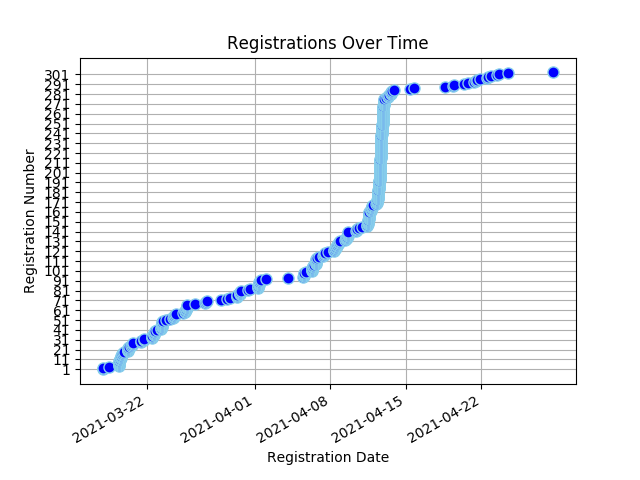
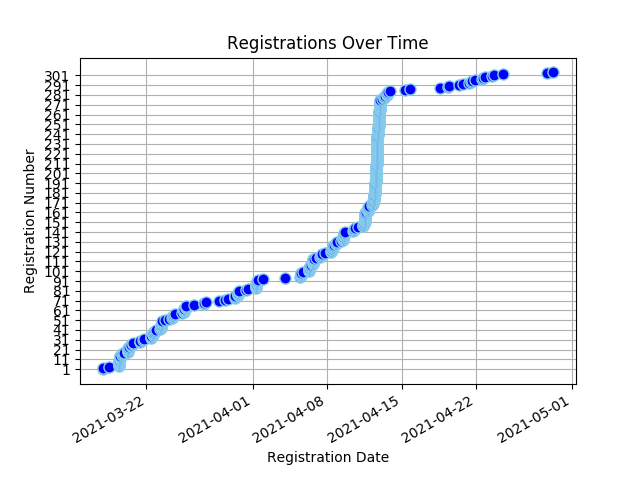
Registree stats backup on Thu 29 Apr 2021 09:02:29 SAST

diff --git a/content/registrees/_index.md b/content/registrees/_index.md
@@ -3,7 +3,7 @@ title: Registration Stats
 draft: false
 ---
 
-<ul><li><strong>Number of Registrees</strong>: 303</li>
+<ul><li><strong>Number of Registrees</strong>: 304</li>
 
 <li><strong>Number of Clubs</strong>: 70</li>
 
@@ -33,6 +33,6 @@ draft: false
         </tr>
     </thead>
     <tbody>
-<tr><td>Natalie Abrahams</td><td>Cape Town</td><td>410W</td></tr><tr><td>Alan Abramsohn</td><td>Milnerton</td><td>410W</td></tr><tr><td>Janine Abramsohn</td><td>Sea Point</td><td>410W</td></tr><tr><td>Rashid Adams</td><td>Athlone</td><td>410W</td></tr><tr><td>Linda Anderson</td><td>George</td><td>410W</td></tr><tr><td>Neale Stewart ANDREWS</td><td>Cowies Hill</td><td>410E</td></tr><tr><td>Linda Baumgarten</td><td>Sea Point</td><td>410W</td></tr><tr><td>Ulrike Behrens</td><td>Windhoek</td><td>410W</td></tr><tr><td>Cathleen Benade</td><td>Rehoboth</td><td>410W</td></tr><tr><td>Valencia Beukes-Williams</td><td>Kuilsriver</td><td>410W</td></tr><tr><td>Suzette Blake</td><td>Centurion</td><td>410E</td></tr><tr><td>Belinda Blakeman</td><td>North Durban</td><td>410E</td></tr><tr><td>Mel Boswell</td><td>Nelspruit</td><td>410E</td></tr><tr><td>Lyn(ette) Botha</td><td>Cowies Hill</td><td>410E</td></tr><tr><td>JOSE BRAGA BORGES</td><td>Malmesbury</td><td>410W</td></tr><tr><td>Paul Brauteseth</td><td>Port Shepstone</td><td>410E</td></tr><tr><td>Byron Brooker</td><td>Pretoria South</td><td>410E</td></tr><tr><td>Nelle Buhrmann</td><td>Sea Point</td><td>410W</td></tr><tr><td>Christopher Bull</td><td>The Wilds</td><td>410E</td></tr><tr><td>Karin Byars</td><td>Manzini</td><td>410E</td></tr><tr><td>Herman Cadman</td><td>Stellenbosch</td><td>410W</td></tr><tr><td>Artemis Calomiris</td><td>Helderberg</td><td>410W</td></tr><tr><td>Linda Ann Cannone</td><td>Fish Hoek</td><td>410W</td></tr><tr><td>Petrus Carstens</td><td>Worcester</td><td>410W</td></tr><tr><td>Lizelle Castle</td><td>Athlone</td><td>410W</td></tr><tr><td>Sue Charles</td><td>Tokai</td><td>410W</td></tr><tr><td>Lionel Chazen</td><td>Edenvale</td><td>410E</td></tr><tr><td>Perry Chetty</td><td>East Coast</td><td>410E</td></tr><tr><td>Tanyaradzwa Chinyai</td><td>Groote Schuur</td><td>410W</td></tr><tr><td>Delaney Yeltsin Cloete</td><td>Eden</td><td>410W</td></tr><tr><td>Kate Coppen</td><td>Letaba Tzaneen</td><td>410E</td></tr><tr><td>Esme Cornelius</td><td>Kuilsriver</td><td>410W</td></tr><tr><td>Sharon Cottle</td><td>Groote Schuur</td><td>410W</td></tr><tr><td>Joel d'Offay</td><td>Milnerton</td><td>410W</td></tr><tr><td>Peter Daniel</td><td>Gordons Bay</td><td>410W</td></tr><tr><td>Norma Daniel</td><td>Gordons Bay</td><td>410W</td></tr><tr><td>Melanie Davids</td><td>Alberton</td><td>410E</td></tr><tr><td>Engela de Kock</td><td>Swellendam</td><td>410W</td></tr><tr><td>Francois de Kock</td><td>Swellendam</td><td>410W</td></tr><tr><td>Charlotte de Silva</td><td>Edenvale</td><td>410E</td></tr><tr><td>ANDRE DE VILLIERS</td><td>Malgas</td><td>410W</td></tr><tr><td>Lara De Wet</td><td>Edenvale</td><td>410E</td></tr><tr><td>Benita Diener</td><td>Mitchells Plain</td><td>410W</td></tr><tr><td>Freda Dodd</td><td>Table View</td><td>410W</td></tr><tr><td>Peggy Du Plooy</td><td>Krugersdorp</td><td>410E</td></tr><tr><td>Ivan Du Plooy</td><td>Krugersdorp</td><td>410E</td></tr><tr><td>Marc du Plooy</td><td>Alberton</td><td>410E</td></tr><tr><td>Tammy du Plooy</td><td>Alberton</td><td>410E</td></tr><tr><td>Marihana Du Preez</td><td>Pretoria Jakaranda</td><td>410E</td></tr><tr><td>Desiree du Toit</td><td>Ramsgate</td><td>410E</td></tr><tr><td>Hanè Dunn</td><td>Swellendam</td><td>410W</td></tr><tr><td>Glynn Easton</td><td>Helderkruin</td><td>410E</td></tr><tr><td>Denise Easton</td><td>Helderkruin</td><td>410E</td></tr><tr><td>Johan Els</td><td>Wilro Park</td><td>410E</td></tr><tr><td>Valerie Elske</td><td>Krugersdorp</td><td>410E</td></tr><tr><td>Fadia Ely</td><td>Athlone</td><td>410W</td></tr><tr><td>Abubakr Ely</td><td>Deep South</td><td>410W</td></tr><tr><td>Freddie Erasmus</td><td>Uitenhage</td><td>410E</td></tr><tr><td>Natalie Etridge</td><td>Sedgefield</td><td>410W</td></tr><tr><td>AIDAN Ewers</td><td>Newlands</td><td>410W</td></tr><tr><td>Beate Fahrbach</td><td>Windhoek</td><td>410W</td></tr><tr><td>Roger Fahrbach</td><td>Windhoek</td><td>410W</td></tr><tr><td>Jules Flanagan</td><td>Tokai</td><td>410W</td></tr><tr><td>Charles Flanagan</td><td>Tokai</td><td>410W</td></tr><tr><td>Jéan Fouché</td><td>Worcester</td><td>410W</td></tr><tr><td>Michele Fourie</td><td>Merriman</td><td>410W</td></tr><tr><td>Lucille Fourie</td><td>Pretoria South</td><td>410E</td></tr><tr><td>Clive Fox</td><td>Merriman</td><td>410W</td></tr><tr><td>Pat Fox</td><td>Merriman</td><td>410W</td></tr><tr><td>Kelvin Foxcroft</td><td>Helderkruin</td><td>410E</td></tr><tr><td>Katherine Foxcroft</td><td>Helderkruin</td><td>410E</td></tr><tr><td>Jenny Foxcroft</td><td>Helderkruin</td><td>410E</td></tr><tr><td>Martin Froise</td><td>Letaba Tzaneen</td><td>410E</td></tr><tr><td>Allison Georges</td><td>Cape Of Good Hope</td><td>410W</td></tr><tr><td>Bernd Gerhard</td><td>Wilro Park</td><td>410E</td></tr><tr><td>Shirley Gerhard</td><td>Wilro Park</td><td>410E</td></tr><tr><td>Valerie Graham</td><td>Nelspruit</td><td>410E</td></tr><tr><td>Mike Graham</td><td>Nelspruit</td><td>410E</td></tr><tr><td>Viv Grater</td><td>Sedgefield</td><td>410W</td></tr><tr><td>Brian Gray</td><td>Durbanville</td><td>410W</td></tr><tr><td>David Griffith</td><td>The Wilds</td><td>410E</td></tr><tr><td>Matty Grobler</td><td>Henties Bay</td><td>410W</td></tr><tr><td>Christiana Groenewoud</td><td>Milnerton</td><td>410W</td></tr><tr><td>Ian Grove</td><td>Kirstenbosch</td><td>410W</td></tr><tr><td>Mattheus Groves</td><td>Sedgefield</td><td>410W</td></tr><tr><td>Glyn Gunter</td><td>Malmesbury</td><td>410W</td></tr><tr><td>Clint Guthrie</td><td>Pretoria South</td><td>410E</td></tr><tr><td>Barbara Haywood</td><td>Eden</td><td>410W</td></tr><tr><td>Mike Heathcote</td><td>Port Shepstone</td><td>410E</td></tr><tr><td>Zarina Hendricks</td><td>Athlone</td><td>410W</td></tr><tr><td>ELIZABETH Hendriks</td><td>Table View</td><td>410W</td></tr><tr><td>MBULELO HERMANUS</td><td>Pretoria South</td><td>410E</td></tr><tr><td>Evelyn Herzfeld</td><td>Edenvale</td><td>410E</td></tr><tr><td>Dorothy Hess</td><td>Kuilsriver</td><td>410W</td></tr><tr><td>Wendy Higgins</td><td>Wilro Park</td><td>410E</td></tr><tr><td>Avril Hobbs</td><td>North Durban</td><td>410E</td></tr><tr><td>Trevor Hobbs</td><td>North Durban</td><td>410E</td></tr><tr><td>Jacqui Hocking</td><td>Midrand</td><td>410E</td></tr><tr><td>Cliff Hocking</td><td>Midrand</td><td>410E</td></tr><tr><td>Ellen G W Hoffmann</td><td>Windhoek</td><td>410W</td></tr><tr><td>KEITH ALEXANDER HOLLIMAN</td><td>Alberton</td><td>410E</td></tr><tr><td>Liz Houston</td><td>Table View</td><td>410W</td></tr><tr><td>John Houston</td><td>Table View</td><td>410W</td></tr><tr><td>Johan Huysamen</td><td>Malmesbury</td><td>410W</td></tr><tr><td>Gail Jackman</td><td>Nelspruit</td><td>410E</td></tr><tr><td>Alna Jackson</td><td>Pretoria Jakaranda</td><td>410E</td></tr><tr><td>Jean Jacobs</td><td>Mitchells Plain</td><td>410W</td></tr><tr><td>Dawid Jacobs</td><td>Durbanville</td><td>410W</td></tr><tr><td>WOLSLEY Jacobson</td><td>Cape Town</td><td>410W</td></tr><tr><td>Tristan Jeniker</td><td>Merriman</td><td>410W</td></tr><tr><td>MALCOLM JOHNSTON</td><td>Standerton</td><td>410E</td></tr><tr><td>Grant Jonathan</td><td>Gordons Bay</td><td>410W</td></tr><tr><td>Jos Kahn</td><td>Ceres</td><td>410W</td></tr><tr><td>Michelle Kahn</td><td>Sea Point</td><td>410W</td></tr><tr><td>Nico Kaiyamo</td><td>Tsumeb</td><td>410W</td></tr><tr><td>Faezal Karriem</td><td>Worcester</td><td>410W</td></tr><tr><td>Amanda Kemp</td><td>Milnerton</td><td>410W</td></tr><tr><td>Esmeralda Catherine Kennel</td><td>Newlands</td><td>410W</td></tr><tr><td>Jerome Kern</td><td>Groote Schuur</td><td>410W</td></tr><tr><td>Hassan Khan</td><td>Kirstenbosch</td><td>410W</td></tr><tr><td>Faniso Khoza</td><td>The Wilds</td><td>410E</td></tr><tr><td>Margie Kienast</td><td>Edenvale</td><td>410E</td></tr><tr><td>Joyce Kimari</td><td>Eden</td><td>410E</td></tr><tr><td>Ian King</td><td>Alberton</td><td>410E</td></tr><tr><td>Sandy King</td><td>Alberton</td><td>410E</td></tr><tr><td>Christa Koekemoer</td><td>Letaba Tzaneen</td><td>410E</td></tr><tr><td>Alton Koenze</td><td>Worcester</td><td>410W</td></tr><tr><td>Alton Koenze</td><td>Worcester</td><td>410W</td></tr><tr><td>Muya Koloko</td><td>Durbanville</td><td>410W</td></tr><tr><td>Zwaai Kruger</td><td>Sedgefield</td><td>410W</td></tr><tr><td>Pieter Kruger</td><td>Wilro Park</td><td>410E</td></tr><tr><td>Niqula Kruger</td><td>Wilro Park</td><td>410E</td></tr><tr><td>Bettina Kröning</td><td>Windhoek</td><td>410W</td></tr><tr><td>Natalie Laas</td><td>Alberton</td><td>410E</td></tr><tr><td>Susan Labuschagne</td><td>Wilro Park</td><td>410E</td></tr><tr><td>Bevil Lakay</td><td>Mitchells Plain</td><td>410W</td></tr><tr><td>Paula Lang</td><td>Gordons Bay</td><td>410W</td></tr><tr><td>Jimmy Lang</td><td>Gordons Bay</td><td>410W</td></tr><tr><td>Elke Langmaak</td><td>Windhoek</td><td>410W</td></tr><tr><td>Kai Langmaak</td><td>Windhoek</td><td>410W</td></tr><tr><td>Evelyn May Langton</td><td>Alberton</td><td>410E</td></tr><tr><td>Herman Laubscher</td><td>Ceres</td><td>410W</td></tr><tr><td>Steven Lautenbach</td><td>Pretoria South</td><td>410E</td></tr><tr><td>leandre layman</td><td>Groote Schuur</td><td>410W</td></tr><tr><td>Jeanette le Roux</td><td>Gonubie</td><td>410E</td></tr><tr><td>Heather Lee</td><td>Cape Of Good Hope</td><td>410W</td></tr><tr><td>Graeme Logan</td><td>Pretoria South</td><td>410E</td></tr><tr><td>Erika Louw</td><td>Durbanville</td><td>410W</td></tr><tr><td>Dee Love</td><td>Cowies Hill</td><td>410E</td></tr><tr><td>Rashmiya Lucas</td><td>Mitchells Plain</td><td>410W</td></tr><tr><td>Zarina Luck</td><td>Newcastle</td><td>410E</td></tr><tr><td>Pam MacRobert</td><td>Groote Schuur</td><td>410W</td></tr><tr><td>Sharon Mangwende</td><td>Cape Town</td><td>410W</td></tr><tr><td>Richard MARCHANT</td><td>The Wilds</td><td>410E</td></tr><tr><td>Beaulieu Mare</td><td>Benoni Lakes</td><td>410E</td></tr><tr><td>Nick Maré</td><td>Benoni Lakes</td><td>410E</td></tr><tr><td>Jean Masson</td><td>Port Shepstone</td><td>410E</td></tr><tr><td>LANCE MAYTHAM</td><td>Swellendam</td><td>410W</td></tr><tr><td>ROSEMARIE MAYTHAM</td><td>Swellendam</td><td>410W</td></tr><tr><td>David Mccullough</td><td>Pretoria South</td><td>410E</td></tr><tr><td>Rochelle McDonald</td><td>Vereeniging</td><td>410E</td></tr><tr><td>Alec McKerrow</td><td>Port Alfred</td><td>410E</td></tr><tr><td>Stuart McPherson</td><td>Newlands</td><td>410W</td></tr><tr><td>Mark Meltzer</td><td>The Wilds</td><td>410E</td></tr><tr><td>Elisa Metz</td><td>Milnerton</td><td>410W</td></tr><tr><td>Denis Meyer</td><td>Port Shepstone</td><td>410E</td></tr><tr><td>Roy Michas</td><td>Midrand</td><td>410E</td></tr><tr><td>Dawn Michas</td><td>Midrand</td><td>410E</td></tr><tr><td>BERNICE MILLS</td><td>Centurion</td><td>410E</td></tr><tr><td>Patrick Mills</td><td>Centurion</td><td>410E</td></tr><tr><td>Cherie Milosevich</td><td>Milnerton</td><td>410W</td></tr><tr><td>Alana Mitchell</td><td>Rustenburg</td><td>410E</td></tr><tr><td>Juan Mitchell</td><td>Rustenburg</td><td>410E</td></tr><tr><td>Virginia Mkhize</td><td>Cape Town</td><td>410W</td></tr><tr><td>Frauke E. Moeller</td><td>Windhoek</td><td>410W</td></tr><tr><td>Bernadine Moses</td><td>Cape Town</td><td>410W</td></tr><tr><td>Brian Moses</td><td>Cape Of Good Hope</td><td>410W</td></tr><tr><td>Jacques Mostert</td><td>Merriman</td><td>410W</td></tr><tr><td>Suzanne Murray</td><td>Vereeniging</td><td>410E</td></tr><tr><td>Gary Murray</td><td>Vereeniging</td><td>410E</td></tr><tr><td>Peter Mutschler</td><td>Grootfontein</td><td>410W</td></tr><tr><td>Pieter Myburg</td><td>Wellington</td><td>410W</td></tr><tr><td>Cornette Naude</td><td>Letaba Tzaneen</td><td>410E</td></tr><tr><td>Pieter Nel</td><td>George</td><td>410W</td></tr><tr><td>Tillie Nel</td><td>Eden</td><td>410W</td></tr><tr><td>Theo Nel</td><td>Pretoria South</td><td>410E</td></tr><tr><td>Mike Newlands</td><td>Port Alfred</td><td>410E</td></tr><tr><td>Sphiwe Ngobozana</td><td>Centurion</td><td>410E</td></tr><tr><td>Angela Niehaus</td><td>Bergvliet</td><td>410W</td></tr><tr><td>Rachel Nortjie</td><td>Mitchells Plain</td><td>410W</td></tr><tr><td>PDG Bokkie Oberholzer</td><td>Uitenhage</td><td>410E</td></tr><tr><td>Chris Ocker</td><td>Fish Hoek</td><td>410W</td></tr><tr><td>Jenny Ocker</td><td>Fish Hoek</td><td>410W</td></tr><tr><td>Debra Olivier</td><td>Sedgefield</td><td>410W</td></tr><tr><td>Isabella Stratton Ormandy</td><td>Milnerton</td><td>410W</td></tr><tr><td>Bronwyn Anne Paijmans</td><td>Cowies Hill</td><td>410E</td></tr><tr><td>Teresa Pantoleon</td><td>Vereeniging</td><td>410E</td></tr><tr><td>Maureen Peters</td><td>Ceres</td><td>410W</td></tr><tr><td>Sundru Pillay</td><td>Durbanville</td><td>410W</td></tr><tr><td>Patrick Pillay</td><td>Tygerberg Hills</td><td>410W</td></tr><tr><td>Tracey Polkinghorne</td><td>Kensington</td><td>410E</td></tr><tr><td>Gavin Polkinghorne</td><td>Kensington</td><td>410E</td></tr><tr><td>BRIAN PORTEOUS</td><td>Hibberdene</td><td>410E</td></tr><tr><td>Yvonne  Maureen Poyowe</td><td>Cape Of Good Hope</td><td>410W</td></tr><tr><td>Sheldon Edmund Pretorius</td><td>Merriman</td><td>410W</td></tr><tr><td>Mary-Anne Ras</td><td>Swellendam</td><td>410W</td></tr><tr><td>Leon Jacobus Ras</td><td>Swellendam</td><td>410W</td></tr><tr><td>Tabeth Rashirai</td><td>Pretoria Jakaranda</td><td>410E</td></tr><tr><td>Janine Rathbone Smyth</td><td>Vereeniging</td><td>410E</td></tr><tr><td>Hugo Reniers</td><td>Nelspruit</td><td>410E</td></tr><tr><td>Sandy Roman</td><td>Bergvliet</td><td>410W</td></tr><tr><td>Mark Rossouw</td><td>Tokai</td><td>410W</td></tr><tr><td>Andrea Rothner</td><td>Eden</td><td>410W</td></tr><tr><td>Anthonie Petrus Roux</td><td>Moorreesburg</td><td>410W</td></tr><tr><td>Ingrid Russell</td><td>Fish Hoek</td><td>410W</td></tr><tr><td>Rodney Sabatier</td><td>Letaba Tzaneen</td><td>410E</td></tr><tr><td>Sharon Sampie</td><td>Bergvliet</td><td>410W</td></tr><tr><td>Vera Schatz</td><td>Windhoek</td><td>410W</td></tr><tr><td>Frank Schatz</td><td>Windhoek</td><td>410W</td></tr><tr><td>Francis Searle</td><td>Kouga</td><td>410E</td></tr><tr><td>Gloria Searle</td><td>Kouga</td><td>410E</td></tr><tr><td>Ami Sell</td><td>Windhoek</td><td>410W</td></tr><tr><td>Beryl Simpson</td><td>Cape Town</td><td>410W</td></tr><tr><td>Kenlis Sircoulomb</td><td>Windhoek</td><td>410W</td></tr><tr><td>Holger Sircoulomb</td><td>Windhoek</td><td>410W</td></tr><tr><td>Hennie Smeer</td><td>Windhoek</td><td>410W</td></tr><tr><td>Sue Smit</td><td>Centurion</td><td>410E</td></tr><tr><td>Herman Smit</td><td>Swellendam</td><td>410W</td></tr><tr><td>Santie Smit</td><td>Durbanville</td><td>410W</td></tr><tr><td>Juanita Smit</td><td>Alberton</td><td>410E</td></tr><tr><td>Jeff Smith</td><td>Port Shepstone</td><td>410E</td></tr><tr><td>Bennie Smith</td><td>Wellington</td><td>410W</td></tr><tr><td>Carmen Dolores Smith</td><td>Tokai</td><td>410W</td></tr><tr><td>David John Smith</td><td>Tokai</td><td>410W</td></tr><tr><td>LYN SNYMAN</td><td>Deep South</td><td>410W</td></tr><tr><td>Diana Sochen</td><td>Sea Point</td><td>410W</td></tr><tr><td>Ashley Stander</td><td>Krugersdorp</td><td>410E</td></tr><tr><td>Brett Jason Stander</td><td>Krugersdorp</td><td>410E</td></tr><tr><td>Max Stander</td><td>Port Alfred</td><td>410E</td></tr><tr><td>TIM STEENBERG</td><td>Wellington</td><td>410W</td></tr><tr><td>Elna Steyn</td><td>Wilro Park</td><td>410E</td></tr><tr><td>RORY stier</td><td>Deep South</td><td>410W</td></tr><tr><td>Patrick Strauss</td><td>Kuilsriver</td><td>410W</td></tr><tr><td>Melinda Lee Strydom</td><td>Alberton</td><td>410E</td></tr><tr><td>Malcolm Stuppel</td><td>De Grendel</td><td>410W</td></tr><tr><td>Trevor Sturges</td><td>Midrand</td><td>410E</td></tr><tr><td>Lauryn Talbot</td><td>Benoni Lakes</td><td>410E</td></tr><tr><td>Margaret Thackwell</td><td>Table View</td><td>410W</td></tr><tr><td>Pierre Theron</td><td>Midrand</td><td>410E</td></tr><tr><td>Moira Theron</td><td>Midrand</td><td>410E</td></tr><tr><td>Diane Townsend</td><td>Benoni Lakes</td><td>410E</td></tr><tr><td>Omolayo Toye</td><td>The Wilds</td><td>410E</td></tr><tr><td>David Alex Tshikala</td><td>Athlone</td><td>410W</td></tr><tr><td>Alistair Tuckett</td><td>Roodepoort Clearwater Cyber</td><td>410E</td></tr><tr><td>Rowan Tuckett</td><td>Roodepoort Clearwater Cyber</td><td>410E</td></tr><tr><td>Gail Tuckett</td><td>Roodepoort Clearwater Cyber</td><td>410E</td></tr><tr><td>natascha tyler</td><td>Kensington</td><td>410E</td></tr><tr><td>Jiri Uchytil</td><td>Alberton</td><td>410E</td></tr><tr><td>Tracy Valadao</td><td>Midrand</td><td>410E</td></tr><tr><td>Carl van Blerk</td><td>Eden</td><td>410W</td></tr><tr><td>HILARY LISE VAN BREDA</td><td>Cape Town</td><td>410W</td></tr><tr><td>Marina Van de Merwe</td><td>Malmesbury</td><td>410W</td></tr><tr><td>PATRICIA VAN DER MERWE</td><td>East London Port Rex</td><td>410E</td></tr><tr><td>MARINA VAN DER MERWE</td><td>Malmesbury</td><td>410W</td></tr><tr><td>Ingrid van der Merwe</td><td>Letaba Tzaneen</td><td>410E</td></tr><tr><td>Hennie van der Westhuizen</td><td>Helderberg</td><td>410W</td></tr><tr><td>Sydney van Heerden</td><td>Wilro Park</td><td>410E</td></tr><tr><td>Sandy van Heerden</td><td>Wilro Park</td><td>410E</td></tr><tr><td>Craig van Heerden</td><td>East London Beacon Bay</td><td>410E</td></tr><tr><td>Mark van Heerden</td><td>Pretoria South</td><td>410E</td></tr><tr><td>Riaan Van Niekerk</td><td>Pretoria South</td><td>410E</td></tr><tr><td>Hilgardt Van Nieuwenhuyzen</td><td>Worcester</td><td>410W</td></tr><tr><td>Neville Van Rensburg</td><td>Moorreesburg</td><td>410W</td></tr><tr><td>Anne van Rensburg</td><td>Windhoek</td><td>410W</td></tr><tr><td>Johan van Rensburg</td><td>Windhoek</td><td>410W</td></tr><tr><td>Lorna Van Romburgh</td><td>Fish Hoek</td><td>410W</td></tr><tr><td>Alan van Wulven</td><td>Tygerberg Hills</td><td>410W</td></tr><tr><td>Deon van Wulven</td><td>Tygerberg Hills</td><td>410W</td></tr><tr><td>Jeannie van Wulven</td><td>Tygerberg Hills</td><td>410W</td></tr><tr><td>Kim van Wyk</td><td>North Durban</td><td>410E</td></tr><tr><td>Lindie van Wyk</td><td>Pretoria Jakaranda</td><td>410E</td></tr><tr><td>Willem van Wyk</td><td>Midrand</td><td>410E</td></tr><tr><td>Patricia van Wyk</td><td>Pretoria Jakaranda</td><td>410E</td></tr><tr><td>Edith Van Wyk-Nelson</td><td>Kuilsriver</td><td>410W</td></tr><tr><td>Louis Van Zyl</td><td>Centurion</td><td>410E</td></tr><tr><td>Louis Venter</td><td>Letaba Tzaneen</td><td>410E</td></tr><tr><td>Russell Volker</td><td>King William's Town</td><td>410E</td></tr><tr><td>Brian von der Decken</td><td>King William's Town</td><td>410E</td></tr><tr><td>Rinette Von Mollendorf</td><td>Durbanville</td><td>410W</td></tr><tr><td>Rochelle Vorster</td><td>Sedgefield</td><td>410W</td></tr><tr><td>Alastair Warman</td><td>Port Shepstone</td><td>410E</td></tr><tr><td>Allan Watson</td><td>Sea Point</td><td>410W</td></tr><tr><td>Alison Watson</td><td>Sedgefield</td><td>410W</td></tr><tr><td>Johanna Williams</td><td>Mitchells Plain</td><td>410W</td></tr><tr><td>Neville Williamson</td><td>Port Alfred</td><td>410E</td></tr><tr><td>Geila Wills</td><td>Athlone</td><td>410W</td></tr><tr><td>Meredith Wilter-Sturges</td><td>Midrand</td><td>410E</td></tr><tr><td>Joan Woodman</td><td>Mitchells Plain</td><td>410W</td></tr><tr><td>Rocky Wright</td><td>Table View</td><td>410W</td></tr><tr><td>Judy Young</td><td>Durbanville</td><td>410W</td></tr><tr><td>Gerry Young</td><td>Mitchells Plain</td><td>410W</td></tr><tr><td>Leonie Zucker</td><td>Milnerton</td><td>410W</td></tr><tr><td>Michelle ‘t Hart</td><td>Benoni Lakes</td><td>410E</td></tr>
+<tr><td>Natalie Abrahams</td><td>Cape Town</td><td>410W</td></tr><tr><td>Alan Abramsohn</td><td>Milnerton</td><td>410W</td></tr><tr><td>Janine Abramsohn</td><td>Sea Point</td><td>410W</td></tr><tr><td>Rashid Adams</td><td>Athlone</td><td>410W</td></tr><tr><td>Linda Anderson</td><td>George</td><td>410W</td></tr><tr><td>Neale Stewart ANDREWS</td><td>Cowies Hill</td><td>410E</td></tr><tr><td>Linda Baumgarten</td><td>Sea Point</td><td>410W</td></tr><tr><td>Ulrike Behrens</td><td>Windhoek</td><td>410W</td></tr><tr><td>Cathleen Benade</td><td>Rehoboth</td><td>410W</td></tr><tr><td>Valencia Beukes-Williams</td><td>Kuilsriver</td><td>410W</td></tr><tr><td>Suzette Blake</td><td>Centurion</td><td>410E</td></tr><tr><td>Belinda Blakeman</td><td>North Durban</td><td>410E</td></tr><tr><td>Mel Boswell</td><td>Nelspruit</td><td>410E</td></tr><tr><td>Lyn(ette) Botha</td><td>Cowies Hill</td><td>410E</td></tr><tr><td>JOSE BRAGA BORGES</td><td>Malmesbury</td><td>410W</td></tr><tr><td>Paul Brauteseth</td><td>Port Shepstone</td><td>410E</td></tr><tr><td>Byron Brooker</td><td>Pretoria South</td><td>410E</td></tr><tr><td>Nelle Buhrmann</td><td>Sea Point</td><td>410W</td></tr><tr><td>Christopher Bull</td><td>The Wilds</td><td>410E</td></tr><tr><td>Karin Byars</td><td>Manzini</td><td>410E</td></tr><tr><td>Herman Cadman</td><td>Stellenbosch</td><td>410W</td></tr><tr><td>Artemis Calomiris</td><td>Helderberg</td><td>410W</td></tr><tr><td>Linda Ann Cannone</td><td>Fish Hoek</td><td>410W</td></tr><tr><td>Petrus Carstens</td><td>Worcester</td><td>410W</td></tr><tr><td>Lizelle Castle</td><td>Athlone</td><td>410W</td></tr><tr><td>Sue Charles</td><td>Tokai</td><td>410W</td></tr><tr><td>Lionel Chazen</td><td>Edenvale</td><td>410E</td></tr><tr><td>Perry Chetty</td><td>East Coast</td><td>410E</td></tr><tr><td>Tanyaradzwa Chinyai</td><td>Groote Schuur</td><td>410W</td></tr><tr><td>Delaney Yeltsin Cloete</td><td>Eden</td><td>410W</td></tr><tr><td>Kate Coppen</td><td>Letaba Tzaneen</td><td>410E</td></tr><tr><td>Esme Cornelius</td><td>Kuilsriver</td><td>410W</td></tr><tr><td>Sharon Cottle</td><td>Groote Schuur</td><td>410W</td></tr><tr><td>Joel d'Offay</td><td>Milnerton</td><td>410W</td></tr><tr><td>Peter Daniel</td><td>Gordons Bay</td><td>410W</td></tr><tr><td>Norma Daniel</td><td>Gordons Bay</td><td>410W</td></tr><tr><td>Melanie Davids</td><td>Alberton</td><td>410E</td></tr><tr><td>Engela de Kock</td><td>Swellendam</td><td>410W</td></tr><tr><td>Francois de Kock</td><td>Swellendam</td><td>410W</td></tr><tr><td>Charlotte de Silva</td><td>Edenvale</td><td>410E</td></tr><tr><td>ANDRE DE VILLIERS</td><td>Malgas</td><td>410W</td></tr><tr><td>Lara De Wet</td><td>Edenvale</td><td>410E</td></tr><tr><td>Benita Diener</td><td>Mitchells Plain</td><td>410W</td></tr><tr><td>Freda Dodd</td><td>Table View</td><td>410W</td></tr><tr><td>Peggy Du Plooy</td><td>Krugersdorp</td><td>410E</td></tr><tr><td>Ivan Du Plooy</td><td>Krugersdorp</td><td>410E</td></tr><tr><td>Marc du Plooy</td><td>Alberton</td><td>410E</td></tr><tr><td>Tammy du Plooy</td><td>Alberton</td><td>410E</td></tr><tr><td>Marihana Du Preez</td><td>Pretoria Jakaranda</td><td>410E</td></tr><tr><td>Desiree du Toit</td><td>Ramsgate</td><td>410E</td></tr><tr><td>Hanè Dunn</td><td>Swellendam</td><td>410W</td></tr><tr><td>Glynn Easton</td><td>Helderkruin</td><td>410E</td></tr><tr><td>Denise Easton</td><td>Helderkruin</td><td>410E</td></tr><tr><td>Johan Els</td><td>Wilro Park</td><td>410E</td></tr><tr><td>Valerie Elske</td><td>Krugersdorp</td><td>410E</td></tr><tr><td>Fadia Ely</td><td>Athlone</td><td>410W</td></tr><tr><td>Abubakr Ely</td><td>Deep South</td><td>410W</td></tr><tr><td>Freddie Erasmus</td><td>Uitenhage</td><td>410E</td></tr><tr><td>Natalie Etridge</td><td>Sedgefield</td><td>410W</td></tr><tr><td>AIDAN Ewers</td><td>Newlands</td><td>410W</td></tr><tr><td>Beate Fahrbach</td><td>Windhoek</td><td>410W</td></tr><tr><td>Roger Fahrbach</td><td>Windhoek</td><td>410W</td></tr><tr><td>Jules Flanagan</td><td>Tokai</td><td>410W</td></tr><tr><td>Charles Flanagan</td><td>Tokai</td><td>410W</td></tr><tr><td>Jéan Fouché</td><td>Worcester</td><td>410W</td></tr><tr><td>Michele Fourie</td><td>Merriman</td><td>410W</td></tr><tr><td>Lucille Fourie</td><td>Pretoria South</td><td>410E</td></tr><tr><td>Clive Fox</td><td>Merriman</td><td>410W</td></tr><tr><td>Pat Fox</td><td>Merriman</td><td>410W</td></tr><tr><td>Kelvin Foxcroft</td><td>Helderkruin</td><td>410E</td></tr><tr><td>Katherine Foxcroft</td><td>Helderkruin</td><td>410E</td></tr><tr><td>Jenny Foxcroft</td><td>Helderkruin</td><td>410E</td></tr><tr><td>Martin Froise</td><td>Letaba Tzaneen</td><td>410E</td></tr><tr><td>Allison Georges</td><td>Cape Of Good Hope</td><td>410W</td></tr><tr><td>Bernd Gerhard</td><td>Wilro Park</td><td>410E</td></tr><tr><td>Shirley Gerhard</td><td>Wilro Park</td><td>410E</td></tr><tr><td>Valerie Graham</td><td>Nelspruit</td><td>410E</td></tr><tr><td>Mike Graham</td><td>Nelspruit</td><td>410E</td></tr><tr><td>Viv Grater</td><td>Sedgefield</td><td>410W</td></tr><tr><td>Brian Gray</td><td>Durbanville</td><td>410W</td></tr><tr><td>David Griffith</td><td>The Wilds</td><td>410E</td></tr><tr><td>Matty Grobler</td><td>Henties Bay</td><td>410W</td></tr><tr><td>Christiana Groenewoud</td><td>Milnerton</td><td>410W</td></tr><tr><td>Ian Grove</td><td>Kirstenbosch</td><td>410W</td></tr><tr><td>Mattheus Groves</td><td>Sedgefield</td><td>410W</td></tr><tr><td>Glyn Gunter</td><td>Malmesbury</td><td>410W</td></tr><tr><td>Clint Guthrie</td><td>Pretoria South</td><td>410E</td></tr><tr><td>Barbara Haywood</td><td>Eden</td><td>410W</td></tr><tr><td>Mike Heathcote</td><td>Port Shepstone</td><td>410E</td></tr><tr><td>Zarina Hendricks</td><td>Athlone</td><td>410W</td></tr><tr><td>ELIZABETH Hendriks</td><td>Table View</td><td>410W</td></tr><tr><td>MBULELO HERMANUS</td><td>Pretoria South</td><td>410E</td></tr><tr><td>Evelyn Herzfeld</td><td>Edenvale</td><td>410E</td></tr><tr><td>Dorothy Hess</td><td>Kuilsriver</td><td>410W</td></tr><tr><td>Wendy Higgins</td><td>Wilro Park</td><td>410E</td></tr><tr><td>Avril Hobbs</td><td>North Durban</td><td>410E</td></tr><tr><td>Trevor Hobbs</td><td>North Durban</td><td>410E</td></tr><tr><td>Jacqui Hocking</td><td>Midrand</td><td>410E</td></tr><tr><td>Cliff Hocking</td><td>Midrand</td><td>410E</td></tr><tr><td>Ellen G W Hoffmann</td><td>Windhoek</td><td>410W</td></tr><tr><td>KEITH ALEXANDER HOLLIMAN</td><td>Alberton</td><td>410E</td></tr><tr><td>Liz Houston</td><td>Table View</td><td>410W</td></tr><tr><td>John Houston</td><td>Table View</td><td>410W</td></tr><tr><td>Johan Huysamen</td><td>Malmesbury</td><td>410W</td></tr><tr><td>Gail Jackman</td><td>Nelspruit</td><td>410E</td></tr><tr><td>Alna Jackson</td><td>Pretoria Jakaranda</td><td>410E</td></tr><tr><td>Jean Jacobs</td><td>Mitchells Plain</td><td>410W</td></tr><tr><td>Dawid Jacobs</td><td>Durbanville</td><td>410W</td></tr><tr><td>WOLSLEY Jacobson</td><td>Cape Town</td><td>410W</td></tr><tr><td>Tristan Jeniker</td><td>Merriman</td><td>410W</td></tr><tr><td>MALCOLM JOHNSTON</td><td>Standerton</td><td>410E</td></tr><tr><td>Grant Jonathan</td><td>Gordons Bay</td><td>410W</td></tr><tr><td>Jos Kahn</td><td>Ceres</td><td>410W</td></tr><tr><td>Michelle Kahn</td><td>Sea Point</td><td>410W</td></tr><tr><td>Nico Kaiyamo</td><td>Tsumeb</td><td>410W</td></tr><tr><td>Faezal Karriem</td><td>Worcester</td><td>410W</td></tr><tr><td>Amanda Kemp</td><td>Milnerton</td><td>410W</td></tr><tr><td>Esmeralda Catherine Kennel</td><td>Newlands</td><td>410W</td></tr><tr><td>Jerome Kern</td><td>Groote Schuur</td><td>410W</td></tr><tr><td>Hassan Khan</td><td>Kirstenbosch</td><td>410W</td></tr><tr><td>Faniso Khoza</td><td>The Wilds</td><td>410E</td></tr><tr><td>Margie Kienast</td><td>Edenvale</td><td>410E</td></tr><tr><td>Joyce Kimari</td><td>Eden</td><td>410E</td></tr><tr><td>Ian King</td><td>Alberton</td><td>410E</td></tr><tr><td>Sandy King</td><td>Alberton</td><td>410E</td></tr><tr><td>Christa Koekemoer</td><td>Letaba Tzaneen</td><td>410E</td></tr><tr><td>Alton Koenze</td><td>Worcester</td><td>410W</td></tr><tr><td>Alton Koenze</td><td>Worcester</td><td>410W</td></tr><tr><td>Muya Koloko</td><td>Durbanville</td><td>410W</td></tr><tr><td>Zwaai Kruger</td><td>Sedgefield</td><td>410W</td></tr><tr><td>Pieter Kruger</td><td>Wilro Park</td><td>410E</td></tr><tr><td>Niqula Kruger</td><td>Wilro Park</td><td>410E</td></tr><tr><td>Bettina Kröning</td><td>Windhoek</td><td>410W</td></tr><tr><td>Natalie Laas</td><td>Alberton</td><td>410E</td></tr><tr><td>Susan Labuschagne</td><td>Wilro Park</td><td>410E</td></tr><tr><td>Bevil Lakay</td><td>Mitchells Plain</td><td>410W</td></tr><tr><td>Paula Lang</td><td>Gordons Bay</td><td>410W</td></tr><tr><td>Jimmy Lang</td><td>Gordons Bay</td><td>410W</td></tr><tr><td>Elke Langmaak</td><td>Windhoek</td><td>410W</td></tr><tr><td>Kai Langmaak</td><td>Windhoek</td><td>410W</td></tr><tr><td>Evelyn May Langton</td><td>Alberton</td><td>410E</td></tr><tr><td>Herman Laubscher</td><td>Ceres</td><td>410W</td></tr><tr><td>Steven Lautenbach</td><td>Pretoria South</td><td>410E</td></tr><tr><td>leandre layman</td><td>Groote Schuur</td><td>410W</td></tr><tr><td>Jeanette le Roux</td><td>Gonubie</td><td>410E</td></tr><tr><td>Heather Lee</td><td>Cape Of Good Hope</td><td>410W</td></tr><tr><td>Graeme Logan</td><td>Pretoria South</td><td>410E</td></tr><tr><td>Erika Louw</td><td>Durbanville</td><td>410W</td></tr><tr><td>Dee Love</td><td>Cowies Hill</td><td>410E</td></tr><tr><td>Rashmiya Lucas</td><td>Mitchells Plain</td><td>410W</td></tr><tr><td>Zarina Luck</td><td>Newcastle</td><td>410E</td></tr><tr><td>Pam MacRobert</td><td>Groote Schuur</td><td>410W</td></tr><tr><td>Sharon Mangwende</td><td>Cape Town</td><td>410W</td></tr><tr><td>Richard MARCHANT</td><td>The Wilds</td><td>410E</td></tr><tr><td>Beaulieu Mare</td><td>Benoni Lakes</td><td>410E</td></tr><tr><td>Nick Maré</td><td>Benoni Lakes</td><td>410E</td></tr><tr><td>Jean Masson</td><td>Port Shepstone</td><td>410E</td></tr><tr><td>LANCE MAYTHAM</td><td>Swellendam</td><td>410W</td></tr><tr><td>ROSEMARIE MAYTHAM</td><td>Swellendam</td><td>410W</td></tr><tr><td>David Mccullough</td><td>Pretoria South</td><td>410E</td></tr><tr><td>Rochelle McDonald</td><td>Vereeniging</td><td>410E</td></tr><tr><td>Alec McKerrow</td><td>Port Alfred</td><td>410E</td></tr><tr><td>Stuart McPherson</td><td>Newlands</td><td>410W</td></tr><tr><td>Mark Meltzer</td><td>The Wilds</td><td>410E</td></tr><tr><td>Elisa Metz</td><td>Milnerton</td><td>410W</td></tr><tr><td>Denis Meyer</td><td>Port Shepstone</td><td>410E</td></tr><tr><td>Roy Michas</td><td>Midrand</td><td>410E</td></tr><tr><td>Dawn Michas</td><td>Midrand</td><td>410E</td></tr><tr><td>BERNICE MILLS</td><td>Centurion</td><td>410E</td></tr><tr><td>Patrick Mills</td><td>Centurion</td><td>410E</td></tr><tr><td>Cherie Milosevich</td><td>Milnerton</td><td>410W</td></tr><tr><td>Alana Mitchell</td><td>Rustenburg</td><td>410E</td></tr><tr><td>Juan Mitchell</td><td>Rustenburg</td><td>410E</td></tr><tr><td>Virginia Mkhize</td><td>Cape Town</td><td>410W</td></tr><tr><td>Frauke E. Moeller</td><td>Windhoek</td><td>410W</td></tr><tr><td>Bernadine Moses</td><td>Cape Town</td><td>410W</td></tr><tr><td>Brian Moses</td><td>Cape Of Good Hope</td><td>410W</td></tr><tr><td>Jacques Mostert</td><td>Merriman</td><td>410W</td></tr><tr><td>Suzanne Murray</td><td>Vereeniging</td><td>410E</td></tr><tr><td>Gary Murray</td><td>Vereeniging</td><td>410E</td></tr><tr><td>Peter Mutschler</td><td>Grootfontein</td><td>410W</td></tr><tr><td>Pieter Myburg</td><td>Wellington</td><td>410W</td></tr><tr><td>Cornette Naude</td><td>Letaba Tzaneen</td><td>410E</td></tr><tr><td>Nici Naude</td><td>King William's Town</td><td>410E</td></tr><tr><td>Pieter Nel</td><td>George</td><td>410W</td></tr><tr><td>Tillie Nel</td><td>Eden</td><td>410W</td></tr><tr><td>Theo Nel</td><td>Pretoria South</td><td>410E</td></tr><tr><td>Mike Newlands</td><td>Port Alfred</td><td>410E</td></tr><tr><td>Sphiwe Ngobozana</td><td>Centurion</td><td>410E</td></tr><tr><td>Angela Niehaus</td><td>Bergvliet</td><td>410W</td></tr><tr><td>Rachel Nortjie</td><td>Mitchells Plain</td><td>410W</td></tr><tr><td>PDG Bokkie Oberholzer</td><td>Uitenhage</td><td>410E</td></tr><tr><td>Chris Ocker</td><td>Fish Hoek</td><td>410W</td></tr><tr><td>Jenny Ocker</td><td>Fish Hoek</td><td>410W</td></tr><tr><td>Debra Olivier</td><td>Sedgefield</td><td>410W</td></tr><tr><td>Isabella Stratton Ormandy</td><td>Milnerton</td><td>410W</td></tr><tr><td>Bronwyn Anne Paijmans</td><td>Cowies Hill</td><td>410E</td></tr><tr><td>Teresa Pantoleon</td><td>Vereeniging</td><td>410E</td></tr><tr><td>Maureen Peters</td><td>Ceres</td><td>410W</td></tr><tr><td>Sundru Pillay</td><td>Durbanville</td><td>410W</td></tr><tr><td>Patrick Pillay</td><td>Tygerberg Hills</td><td>410W</td></tr><tr><td>Tracey Polkinghorne</td><td>Kensington</td><td>410E</td></tr><tr><td>Gavin Polkinghorne</td><td>Kensington</td><td>410E</td></tr><tr><td>BRIAN PORTEOUS</td><td>Hibberdene</td><td>410E</td></tr><tr><td>Yvonne  Maureen Poyowe</td><td>Cape Of Good Hope</td><td>410W</td></tr><tr><td>Sheldon Edmund Pretorius</td><td>Merriman</td><td>410W</td></tr><tr><td>Mary-Anne Ras</td><td>Swellendam</td><td>410W</td></tr><tr><td>Leon Jacobus Ras</td><td>Swellendam</td><td>410W</td></tr><tr><td>Tabeth Rashirai</td><td>Pretoria Jakaranda</td><td>410E</td></tr><tr><td>Janine Rathbone Smyth</td><td>Vereeniging</td><td>410E</td></tr><tr><td>Hugo Reniers</td><td>Nelspruit</td><td>410E</td></tr><tr><td>Sandy Roman</td><td>Bergvliet</td><td>410W</td></tr><tr><td>Mark Rossouw</td><td>Tokai</td><td>410W</td></tr><tr><td>Andrea Rothner</td><td>Eden</td><td>410W</td></tr><tr><td>Anthonie Petrus Roux</td><td>Moorreesburg</td><td>410W</td></tr><tr><td>Ingrid Russell</td><td>Fish Hoek</td><td>410W</td></tr><tr><td>Rodney Sabatier</td><td>Letaba Tzaneen</td><td>410E</td></tr><tr><td>Sharon Sampie</td><td>Bergvliet</td><td>410W</td></tr><tr><td>Vera Schatz</td><td>Windhoek</td><td>410W</td></tr><tr><td>Frank Schatz</td><td>Windhoek</td><td>410W</td></tr><tr><td>Francis Searle</td><td>Kouga</td><td>410E</td></tr><tr><td>Gloria Searle</td><td>Kouga</td><td>410E</td></tr><tr><td>Ami Sell</td><td>Windhoek</td><td>410W</td></tr><tr><td>Beryl Simpson</td><td>Cape Town</td><td>410W</td></tr><tr><td>Kenlis Sircoulomb</td><td>Windhoek</td><td>410W</td></tr><tr><td>Holger Sircoulomb</td><td>Windhoek</td><td>410W</td></tr><tr><td>Hennie Smeer</td><td>Windhoek</td><td>410W</td></tr><tr><td>Sue Smit</td><td>Centurion</td><td>410E</td></tr><tr><td>Herman Smit</td><td>Swellendam</td><td>410W</td></tr><tr><td>Santie Smit</td><td>Durbanville</td><td>410W</td></tr><tr><td>Juanita Smit</td><td>Alberton</td><td>410E</td></tr><tr><td>Jeff Smith</td><td>Port Shepstone</td><td>410E</td></tr><tr><td>Bennie Smith</td><td>Wellington</td><td>410W</td></tr><tr><td>Carmen Dolores Smith</td><td>Tokai</td><td>410W</td></tr><tr><td>David John Smith</td><td>Tokai</td><td>410W</td></tr><tr><td>LYN SNYMAN</td><td>Deep South</td><td>410W</td></tr><tr><td>Diana Sochen</td><td>Sea Point</td><td>410W</td></tr><tr><td>Ashley Stander</td><td>Krugersdorp</td><td>410E</td></tr><tr><td>Brett Jason Stander</td><td>Krugersdorp</td><td>410E</td></tr><tr><td>Max Stander</td><td>Port Alfred</td><td>410E</td></tr><tr><td>TIM STEENBERG</td><td>Wellington</td><td>410W</td></tr><tr><td>Elna Steyn</td><td>Wilro Park</td><td>410E</td></tr><tr><td>RORY stier</td><td>Deep South</td><td>410W</td></tr><tr><td>Patrick Strauss</td><td>Kuilsriver</td><td>410W</td></tr><tr><td>Melinda Lee Strydom</td><td>Alberton</td><td>410E</td></tr><tr><td>Malcolm Stuppel</td><td>De Grendel</td><td>410W</td></tr><tr><td>Trevor Sturges</td><td>Midrand</td><td>410E</td></tr><tr><td>Lauryn Talbot</td><td>Benoni Lakes</td><td>410E</td></tr><tr><td>Margaret Thackwell</td><td>Table View</td><td>410W</td></tr><tr><td>Pierre Theron</td><td>Midrand</td><td>410E</td></tr><tr><td>Moira Theron</td><td>Midrand</td><td>410E</td></tr><tr><td>Diane Townsend</td><td>Benoni Lakes</td><td>410E</td></tr><tr><td>Omolayo Toye</td><td>The Wilds</td><td>410E</td></tr><tr><td>David Alex Tshikala</td><td>Athlone</td><td>410W</td></tr><tr><td>Alistair Tuckett</td><td>Roodepoort Clearwater Cyber</td><td>410E</td></tr><tr><td>Rowan Tuckett</td><td>Roodepoort Clearwater Cyber</td><td>410E</td></tr><tr><td>Gail Tuckett</td><td>Roodepoort Clearwater Cyber</td><td>410E</td></tr><tr><td>natascha tyler</td><td>Kensington</td><td>410E</td></tr><tr><td>Jiri Uchytil</td><td>Alberton</td><td>410E</td></tr><tr><td>Tracy Valadao</td><td>Midrand</td><td>410E</td></tr><tr><td>Carl van Blerk</td><td>Eden</td><td>410W</td></tr><tr><td>HILARY LISE VAN BREDA</td><td>Cape Town</td><td>410W</td></tr><tr><td>Marina Van de Merwe</td><td>Malmesbury</td><td>410W</td></tr><tr><td>PATRICIA VAN DER MERWE</td><td>East London Port Rex</td><td>410E</td></tr><tr><td>MARINA VAN DER MERWE</td><td>Malmesbury</td><td>410W</td></tr><tr><td>Ingrid van der Merwe</td><td>Letaba Tzaneen</td><td>410E</td></tr><tr><td>Hennie van der Westhuizen</td><td>Helderberg</td><td>410W</td></tr><tr><td>Sydney van Heerden</td><td>Wilro Park</td><td>410E</td></tr><tr><td>Sandy van Heerden</td><td>Wilro Park</td><td>410E</td></tr><tr><td>Craig van Heerden</td><td>East London Beacon Bay</td><td>410E</td></tr><tr><td>Mark van Heerden</td><td>Pretoria South</td><td>410E</td></tr><tr><td>Riaan Van Niekerk</td><td>Pretoria South</td><td>410E</td></tr><tr><td>Hilgardt Van Nieuwenhuyzen</td><td>Worcester</td><td>410W</td></tr><tr><td>Neville Van Rensburg</td><td>Moorreesburg</td><td>410W</td></tr><tr><td>Anne van Rensburg</td><td>Windhoek</td><td>410W</td></tr><tr><td>Johan van Rensburg</td><td>Windhoek</td><td>410W</td></tr><tr><td>Lorna Van Romburgh</td><td>Fish Hoek</td><td>410W</td></tr><tr><td>Alan van Wulven</td><td>Tygerberg Hills</td><td>410W</td></tr><tr><td>Deon van Wulven</td><td>Tygerberg Hills</td><td>410W</td></tr><tr><td>Jeannie van Wulven</td><td>Tygerberg Hills</td><td>410W</td></tr><tr><td>Kim van Wyk</td><td>North Durban</td><td>410E</td></tr><tr><td>Lindie van Wyk</td><td>Pretoria Jakaranda</td><td>410E</td></tr><tr><td>Willem van Wyk</td><td>Midrand</td><td>410E</td></tr><tr><td>Patricia van Wyk</td><td>Pretoria Jakaranda</td><td>410E</td></tr><tr><td>Edith Van Wyk-Nelson</td><td>Kuilsriver</td><td>410W</td></tr><tr><td>Louis Van Zyl</td><td>Centurion</td><td>410E</td></tr><tr><td>Louis Venter</td><td>Letaba Tzaneen</td><td>410E</td></tr><tr><td>Russell Volker</td><td>King William's Town</td><td>410E</td></tr><tr><td>Brian von der Decken</td><td>King William's Town</td><td>410E</td></tr><tr><td>Rinette Von Mollendorf</td><td>Durbanville</td><td>410W</td></tr><tr><td>Rochelle Vorster</td><td>Sedgefield</td><td>410W</td></tr><tr><td>Alastair Warman</td><td>Port Shepstone</td><td>410E</td></tr><tr><td>Allan Watson</td><td>Sea Point</td><td>410W</td></tr><tr><td>Alison Watson</td><td>Sedgefield</td><td>410W</td></tr><tr><td>Johanna Williams</td><td>Mitchells Plain</td><td>410W</td></tr><tr><td>Neville Williamson</td><td>Port Alfred</td><td>410E</td></tr><tr><td>Geila Wills</td><td>Athlone</td><td>410W</td></tr><tr><td>Meredith Wilter-Sturges</td><td>Midrand</td><td>410E</td></tr><tr><td>Joan Woodman</td><td>Mitchells Plain</td><td>410W</td></tr><tr><td>Rocky Wright</td><td>Table View</td><td>410W</td></tr><tr><td>Judy Young</td><td>Durbanville</td><td>410W</td></tr><tr><td>Gerry Young</td><td>Mitchells Plain</td><td>410W</td></tr><tr><td>Leonie Zucker</td><td>Milnerton</td><td>410W</td></tr><tr><td>Michelle ‘t Hart</td><td>Benoni Lakes</td><td>410E</td></tr>
 </tbody>
 </table>

diff --git a/content/full_stats/_index.md b/content/full_stats/_index.md
@@ -17,7 +17,7 @@ draft: false
 <body>
 <h1 style="color: #000000;">Full Registration Stats</h1>
 <a href="/docs/registrees_list.xlsx">Download Registrees Excel File</a>
-<ul><li><strong>Number of Registrees</strong>: 303</li>
+<ul><li><strong>Number of Registrees</strong>: 304</li>
 <li><strong>Number of Clubs</strong>: 70</li>
 <li><strong>Club With Most Attendees</strong>: Windhoek (16 registrees)</li>
 
@@ -26,7 +26,7 @@ draft: false
 <li><strong>Number of District 410E Convention Attendees</strong>: 130</li>
 <li><strong>Number of District 410E Convention Voters</strong>: 52</li>
 
-<li><strong>Number of MD410 Convention Attendees</strong>: 244</li>
+<li><strong>Number of MD410 Convention Attendees</strong>: 245</li>
 <li><strong>Number of MD410 Convention Voters</strong>: 98</li>
 
 </ul>
@@ -528,7 +528,7 @@ draft: false
 <td>Benita Diener</td>
 <td>Mitchells Plain</td>
 <td>410W</td>
-<td style="background-color: lightgreen">Yes</td>
+<td>No</td>
 <td style="background-color: lightgreen">Yes</td>
 <td style="background-color: lightgreen">Yes</td>
 <td>No</td>
@@ -1705,7 +1705,7 @@ draft: false
 <td>Rashmiya Lucas</td>
 <td>Mitchells Plain</td>
 <td>410W</td>
-<td>No</td>
+<td style="background-color: lightgreen">Yes</td>
 <td style="background-color: lightgreen">Yes</td>
 <td style="background-color: lightgreen">Yes</td>
 <td>No</td>
@@ -2075,6 +2075,17 @@ draft: false
 </tr>
 
     
+<td>358</td>
+<td>Nici Naude</td>
+<td>King William's Town</td>
+<td>410E</td>
+<td>No</td>
+<td>No</td>
+<td style="background-color: lightgreen">Yes</td>
+<td>No</td>
+</tr>
+
+    
 <td>18</td>
 <td>Pieter Nel</td>
 <td>George</td>
@@ -2255,7 +2266,7 @@ draft: false
 <td>Patrick Pillay</td>
 <td>Tygerberg Hills</td>
 <td>410W</td>
-<td style="background-color: lightgreen">Yes</td>
+<td>No</td>
 <td style="background-color: lightgreen">Yes</td>
 <td style="background-color: lightgreen">Yes</td>
 <td>No</td>
@@ -3124,7 +3135,7 @@ draft: false
 <td>Jeannie van Wulven</td>
 <td>Tygerberg Hills</td>
 <td>410W</td>
-<td>No</td>
+<td style="background-color: lightgreen">Yes</td>
 <td style="background-color: lightgreen">Yes</td>
 <td style="background-color: lightgreen">Yes</td>
 <td>No</td>
